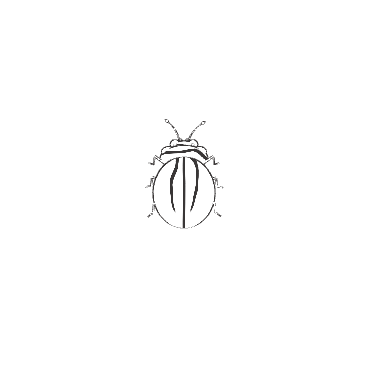
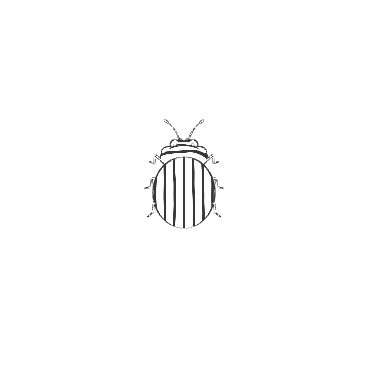
Nyrro: one uniform fine stroke for every line, evenly spaced straight grooves on the wing covers, symmetrical (loader and header pictures redrawn)

Changed region(s): [[0.3886, 0.3288, 0.5978, 0.6277], [0.4484, 0.3288, 0.4783, 0.3587]]

diff --git a/components/copilot/beetle3d.ts b/components/copilot/beetle3d.ts
@@ -65,7 +65,8 @@ function sketchedWing(THREE: typeof THREE_NS, rgb: [number, number, number], siz
       const t = i / (q.length - 2);
       // pressure: light at the start, full in the middle, lifting off at the end, a little unsteady
       // the pen lifts now and then (a small gap) and presses harder or lighter along the line
-      g.lineWidth = Math.max(0.5, pen * 0.75 * (0.85 + 0.3 * Math.sin(t * 4.1 + seed * 2.1))); // a fine ink line, barely uneven
+      void t;
+      g.lineWidth = Math.max(0.5, pen * 0.6); // the same fine width as every other line
       g.beginPath();
       g.moveTo(q[i][0], q[i][1]);
       g.lineTo(q[i + 1][0], q[i + 1][1]);
@@ -143,7 +144,7 @@ export async function mountBeetle3D(box: HTMLElement, opts: { size: number; ink:
 
   // drawn with the film's pen: each line swells and tapers, as a sketch; the swell belongs to the beetle (objPress), so
   // as it flies its lines hold their shape instead of shimmering, and the wings stay drawn as they turn (edge)
-  const sk = { time: { value: 0 }, fogNear: { value: 60 }, fogFar: { value: 90 }, px: { value: pr * penFor(opts.size) }, ink: { value: new THREE.Vector3(...ink) }, even: { value: 1 }, objPress: { value: 0 }, edge: { value: new THREE.Vector2(0.0, 0.06) }, meridAng: { value: 1 }, backLines: { value: 1 }, waver: { value: 0.2 }, sketch: { value: 1 } };
+  const sk = { time: { value: 0 }, fogNear: { value: 60 }, fogFar: { value: 90 }, px: { value: pr * penFor(opts.size) }, ink: { value: new THREE.Vector3(...ink) }, even: { value: 1 }, objPress: { value: 0 }, edge: { value: new THREE.Vector2(0.0, 0.06) }, meridAng: { value: 0 }, backLines: { value: 1 }, waver: { value: 0.1 }, sketch: { value: 1 } };
   // the film's dust is sized for a beetle five times this one (its model drawn at scale 5): scaled to match, so each mote is
   // as fine against its body as in the film
   const proj = (C * pr) / (2 * Math.tan(((FOV / 2) * Math.PI) / 180)) / 5;
@@ -162,7 +163,7 @@ export async function mountBeetle3D(box: HTMLElement, opts: { size: number; ink:
     if ((o as THREE_NS.Points).isPoints) o.visible = false;
     const m = (o as THREE_NS.Mesh).material as THREE_NS.ShaderMaterial | undefined;
     // few, clear lines, as in the logo: four grooves on each case, four rings on the head and shield, four bands on the belly
-    if (m && m.isShaderMaterial && m.uniforms?.merid?.value === 6) m.uniforms.merid.value = 2; // a couple of grooves, not stripes
+    if (m && m.isShaderMaterial && m.uniforms?.merid?.value === 6) m.uniforms.merid.value = 8; // evenly spaced straight grooves down each wing cover, not stripes
     // one pen for every line: the outline drawn no heavier than the grooves and rings inside it (no bold edges)
     if (m && m.isShaderMaterial && m.uniforms?.weight) m.uniforms.weight.value = 0.75; // the outline the same weight as the lines inside it
     if (m && m.isShaderMaterial && m.uniforms?.rings && (m.uniforms.rings.value === 7 || m.uniforms.rings.value === 3)) m.uniforms.rings.value = 2;
@@ -204,7 +205,12 @@ export async function mountBeetle3D(box: HTMLElement, opts: { size: number; ink:
     shellMat.uniforms.stripes.value = 1;
     // one line for each groove: while its cases are lifted in flight, their insides (seen through the open shell) are not
     // drawn as well, so no line is doubled; at rest and rolled on its side the insides are drawn, so it is never empty
-    sk.backLines.value = 1 - 0.85 * open; // the cases keep their lines in every pose: the body is never an empty outline
+    sk.backLines.value = 1 - 0.85 * open;
+    // grooves: straight down the wing covers seen from above; as it rolls onto its side they follow the curve of the shell,
+    // so from the side too they are a few simple lines, not loops
+    const side = clamp(Math.abs(p.roll), 0, 1);
+    sk.meridAng.value = side;
+    shellMat.uniforms.merid.value = 8 - 4 * side; // the cases keep their lines in every pose: the body is never an empty outline
     wingPhase += dt * Math.PI * 2 * 3.2 * unfold; // a small beetle beats its wings quicker than the film's slow, close one
     const beat = Math.sin(wingPhase) * unfold;
     b.dustMat.uniforms.open.value = unfold;
@@ -230,7 +236,7 @@ export async function mountBeetle3D(box: HTMLElement, opts: { size: number; ink:
     b.antennae.forEach((a, i) => {
       const sd = i === 0 ? 1 : -1;
       const w = p.walking ? 2.6 : 1.4;
-      a.rotation.y = sd * (0.35 + (i ? 0.09 : -0.03) + (0.2 * Math.sin(k * w + i * 1.3) + 0.25 * air) * live + 0.22 * twitch * Math.sin(k * 40 + i));
+      a.rotation.y = sd * (0.35 + (0.2 * Math.sin(k * w + i * 1.3) + 0.25 * air) * live + 0.22 * twitch * Math.sin(k * 40 + i));
       a.rotation.x = -0.35 + (0.15 * Math.sin(k * w * 0.8 + i * 2) + 0.35 * air) * live - 0.2 * groom;
       (a.userData.joints as THREE_NS.Group[]).forEach((j, n) => {
         const ph = k * w * 1.1 - n * 0.7 + i * 2.1;
@@ -251,7 +257,7 @@ export async function mountBeetle3D(box: HTMLElement, opts: { size: number; ink:
       const front = L.row === 0 ? groom : 0;
       const shift = L.row === 0 ? 0 : still * 0.08 * Math.sin(k * 0.9 + L.row * 2.3 + (L.side > 0 ? 0 : 1.7));
       const rub = front * Math.sin(k * 16 + (L.side > 0 ? 0 : Math.PI));
-      L.root.rotation.y = L.yawBase + 0.07 * Math.sin(L.row * 2.3 + L.side * 1.9) + sd * (0.45 * swing + 0.18 * paddle + 0.6 * front + 0.12 * rub + shift);
+      L.root.rotation.y = L.yawBase + sd * (0.45 * swing + 0.18 * paddle + 0.6 * front + 0.12 * rub + shift);
       L.hip.rotation.z = 0.35 + 0.42 * up + (-0.4 * air + 0.12 * paddle) * live + 0.75 * front;
       L.knee.rotation.z = -1.85 - 0.3 * up + (0.35 * air + 0.15 * paddle) * live + 0.55 * front + 0.15 * rub;
     }

diff --git a/components/home/HeroFilm.tsx b/components/home/HeroFilm.tsx
@@ -275,12 +275,11 @@ void main(){
   pressure = mix(pressure, 0.5 + 0.95 * noise(vObj.xz * 6.0 + vObj.y * 4.0), objPress);
   // sketch: a pen in a hand, the line a little heavier here and lighter there along its length (fixed on the beetle)
   // (the large drawn parts, the shell and body, vary most; the fine legs and feelers stay whole)
-  float bigPart = step(0.5, merid + rings);
-  pressure *= mix(1.0, 0.85 + 0.3 * noise(vObj.xz * 3.0 + vObj.y * 2.0 + 1.7), sketch * bigPart); // a hand's line: barely uneven
   // the outline: where the surface turns away from you
   float ndv = abs(dot(N, V));
   float fw = max(fwidth(ndv), 1e-4);
-  float wpx = 1.7 * weight * pressure * px;
+  // sketch: every line the same fine width, the outline included (one pen for the whole drawing)
+  float wpx = mix(1.7 * weight * pressure * px, 1.45 * px, sketch); // (an edge line reads a little lighter than a line across: drawn a touch wider so they look the same)
   float a = 1.0 - smoothstep(wpx, wpx + 1.0, ndv / fw);
   a *= mix(mix(0.7 + 0.3 * smoothstep(0.15, 0.35, noise(fc * 0.025 + boil * 1.3 + 9.0)), 1.0, even), 1.0, objPress);
   // objPress: the ink is lighter in places, where the pen barely touched (on the beetle itself, so it holds as it moves)
@@ -304,10 +303,10 @@ void main(){
     float tail = mix(1.0, smoothstep(-0.86, -0.5, vObj.z), meridAng);
     // objPress: a clean line, not shaded by the light (shading turns a bunch of lines into a grey patch)
     float lit = mix(0.5 + 0.5 * n, 1.0, max(objPress, even)); // even: one ink, never shaded
-    a = max(a, lineAt(m + jit, 1.2 * pressure * px * tail) * smoothstep(0.03, 0.07, abs(vObj.x)) * lit * stripes * face * inkFlow * smoothstep(0.0, 0.25, tail));
-    a = max(a, lineAt(vObj.x + jit * 0.02, 1.6 * px * mix(1.0, 0.8, sketch)) * stripes * face);
+    a = max(a, lineAt(m + jit, mix(1.2 * pressure * px * tail, 0.92 * px, sketch)) * smoothstep(0.03, 0.07, abs(vObj.x)) * lit * stripes * face * inkFlow * smoothstep(0.0, 0.25, tail));
+    a = max(a, lineAt(vObj.x + jit * 0.02, mix(1.6, 0.92, sketch) * px) * stripes * face);
   }
-  if (rings > 0.0) a = max(a, lineAt(vObj.z * rings + jit, 1.1 * pressure * px) * mix(0.45 + 0.55 * n, 1.0, max(objPress, even)) * stripes * face * inkFlow);
+  if (rings > 0.0) a = max(a, lineAt(vObj.z * rings + jit, mix(1.1 * pressure, 1.05, sketch) * px) * mix(0.45 + 0.55 * n, 1.0, max(objPress, even)) * stripes * face * inkFlow);
   // stippled light: fine dots of ink where the light falls, thicker where it is brightest, as in a stipple drawing
   if (hatchAmt > 0.0) {
     vec2 q = fc / 3.2;
